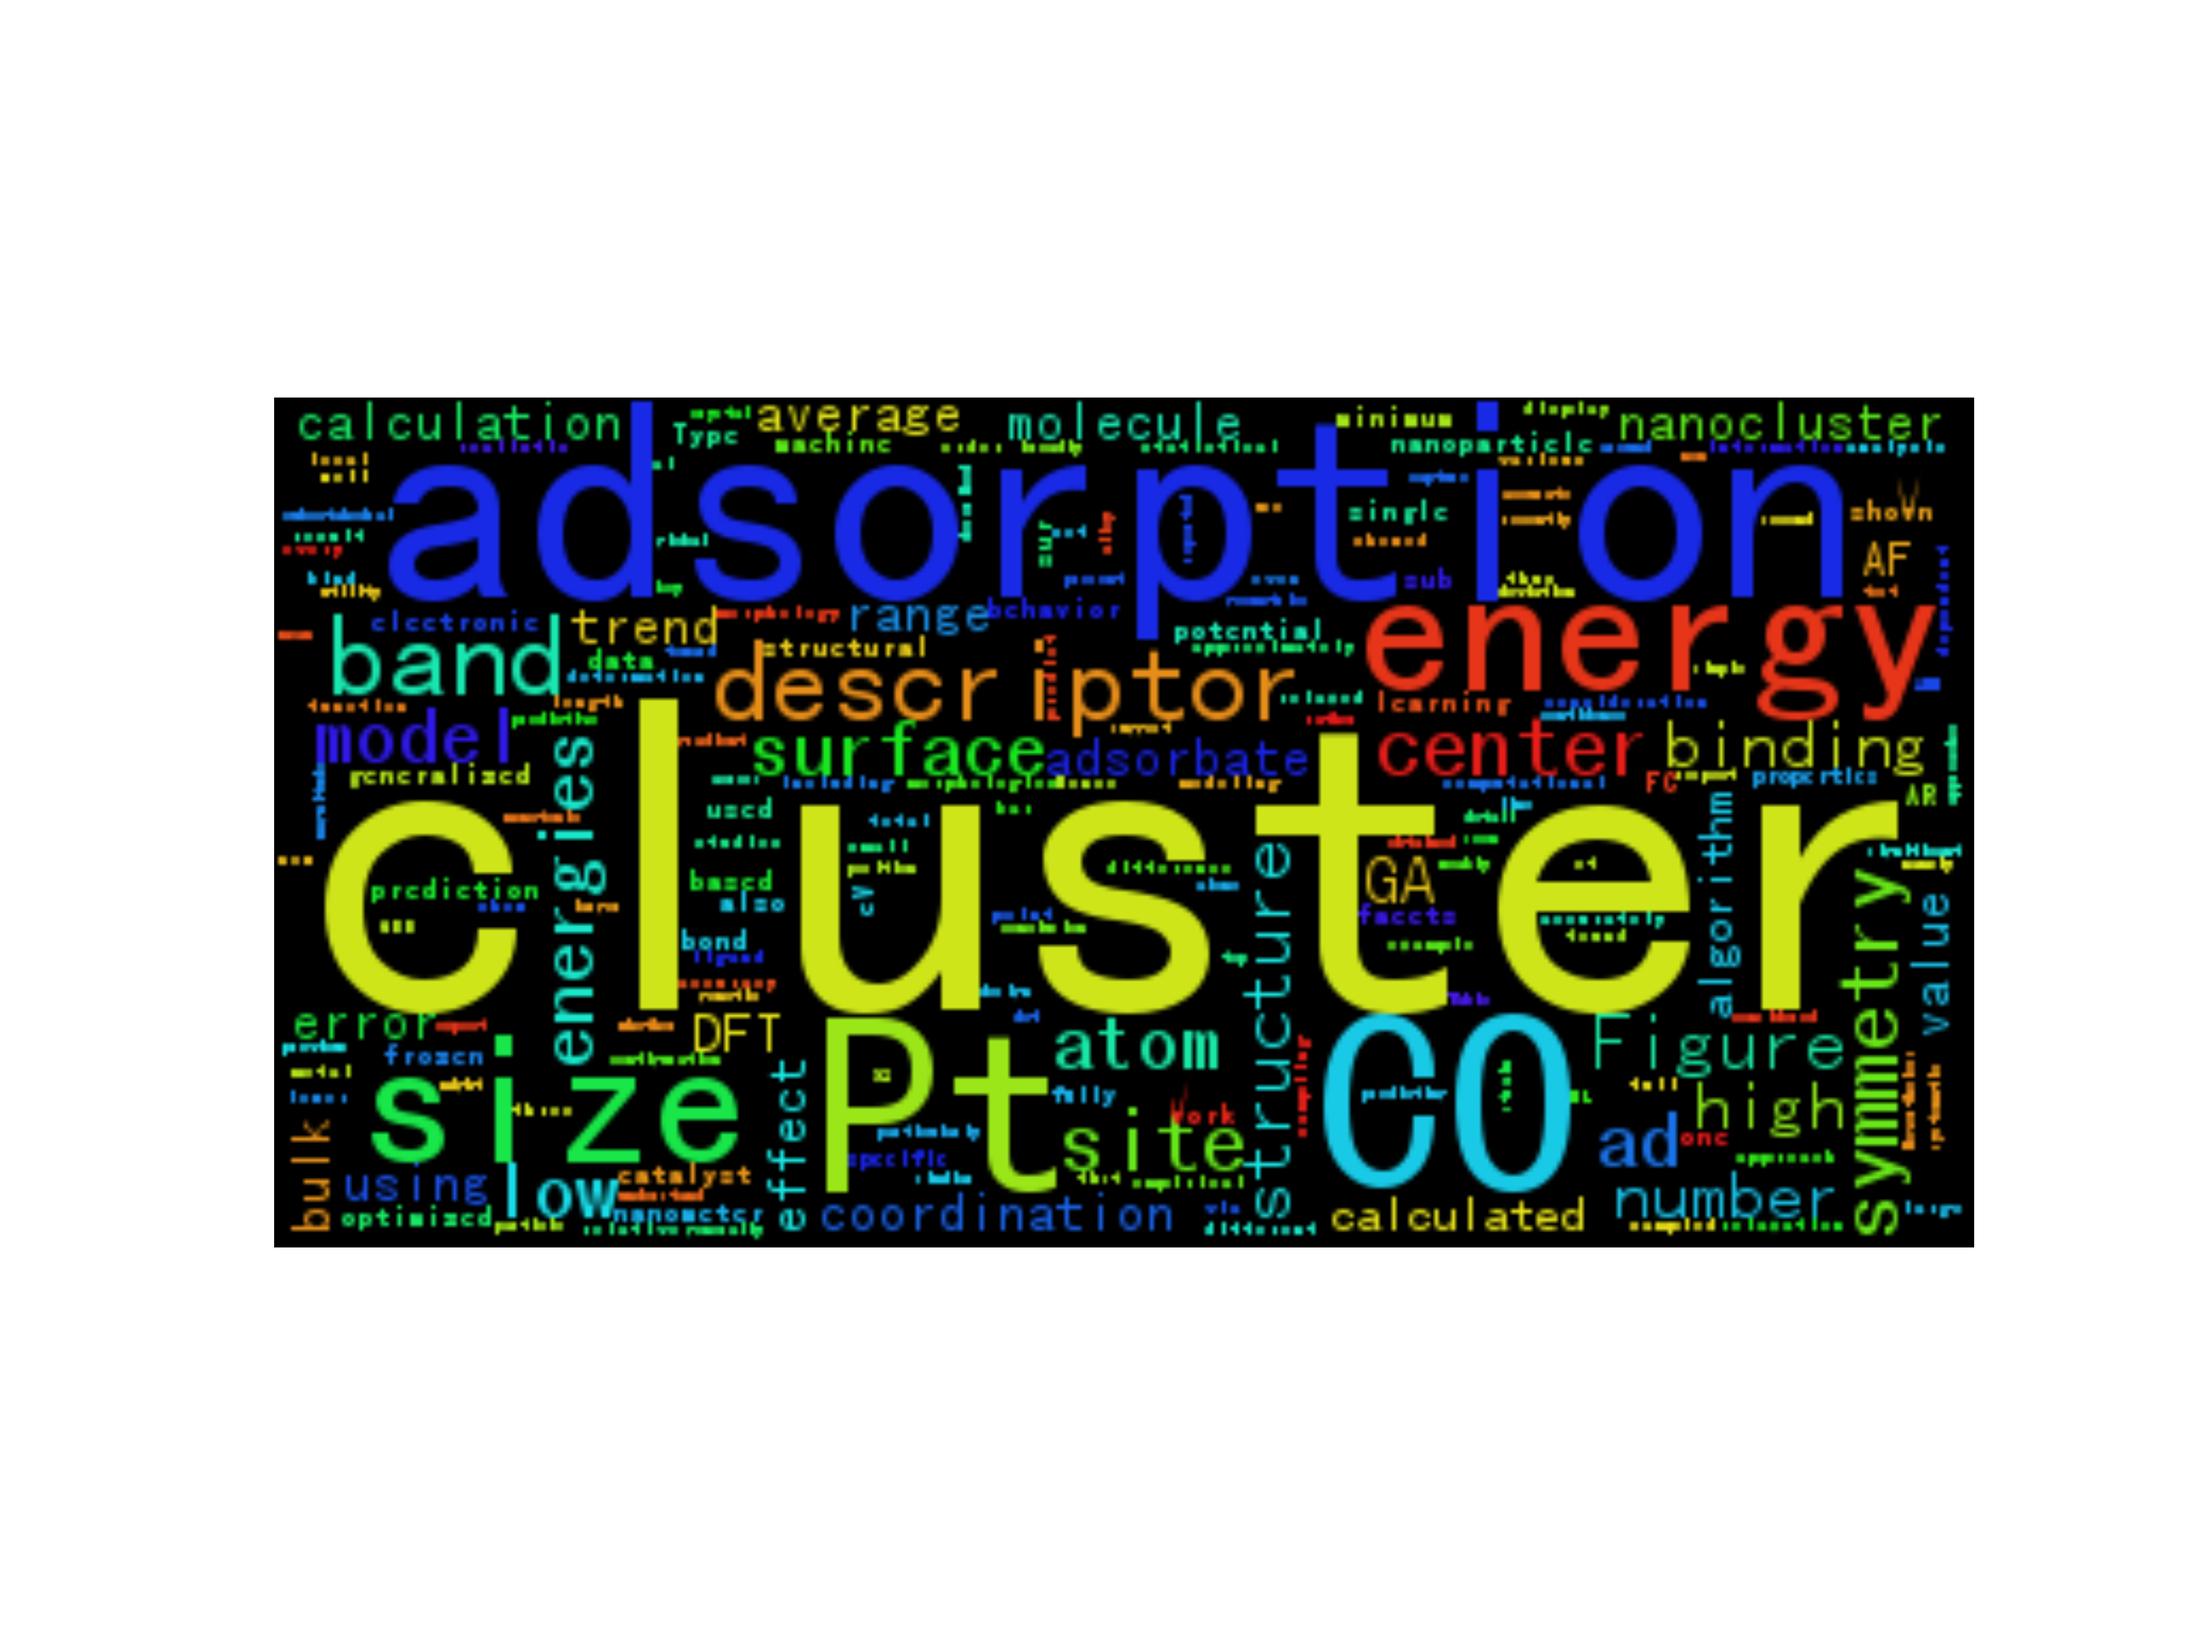
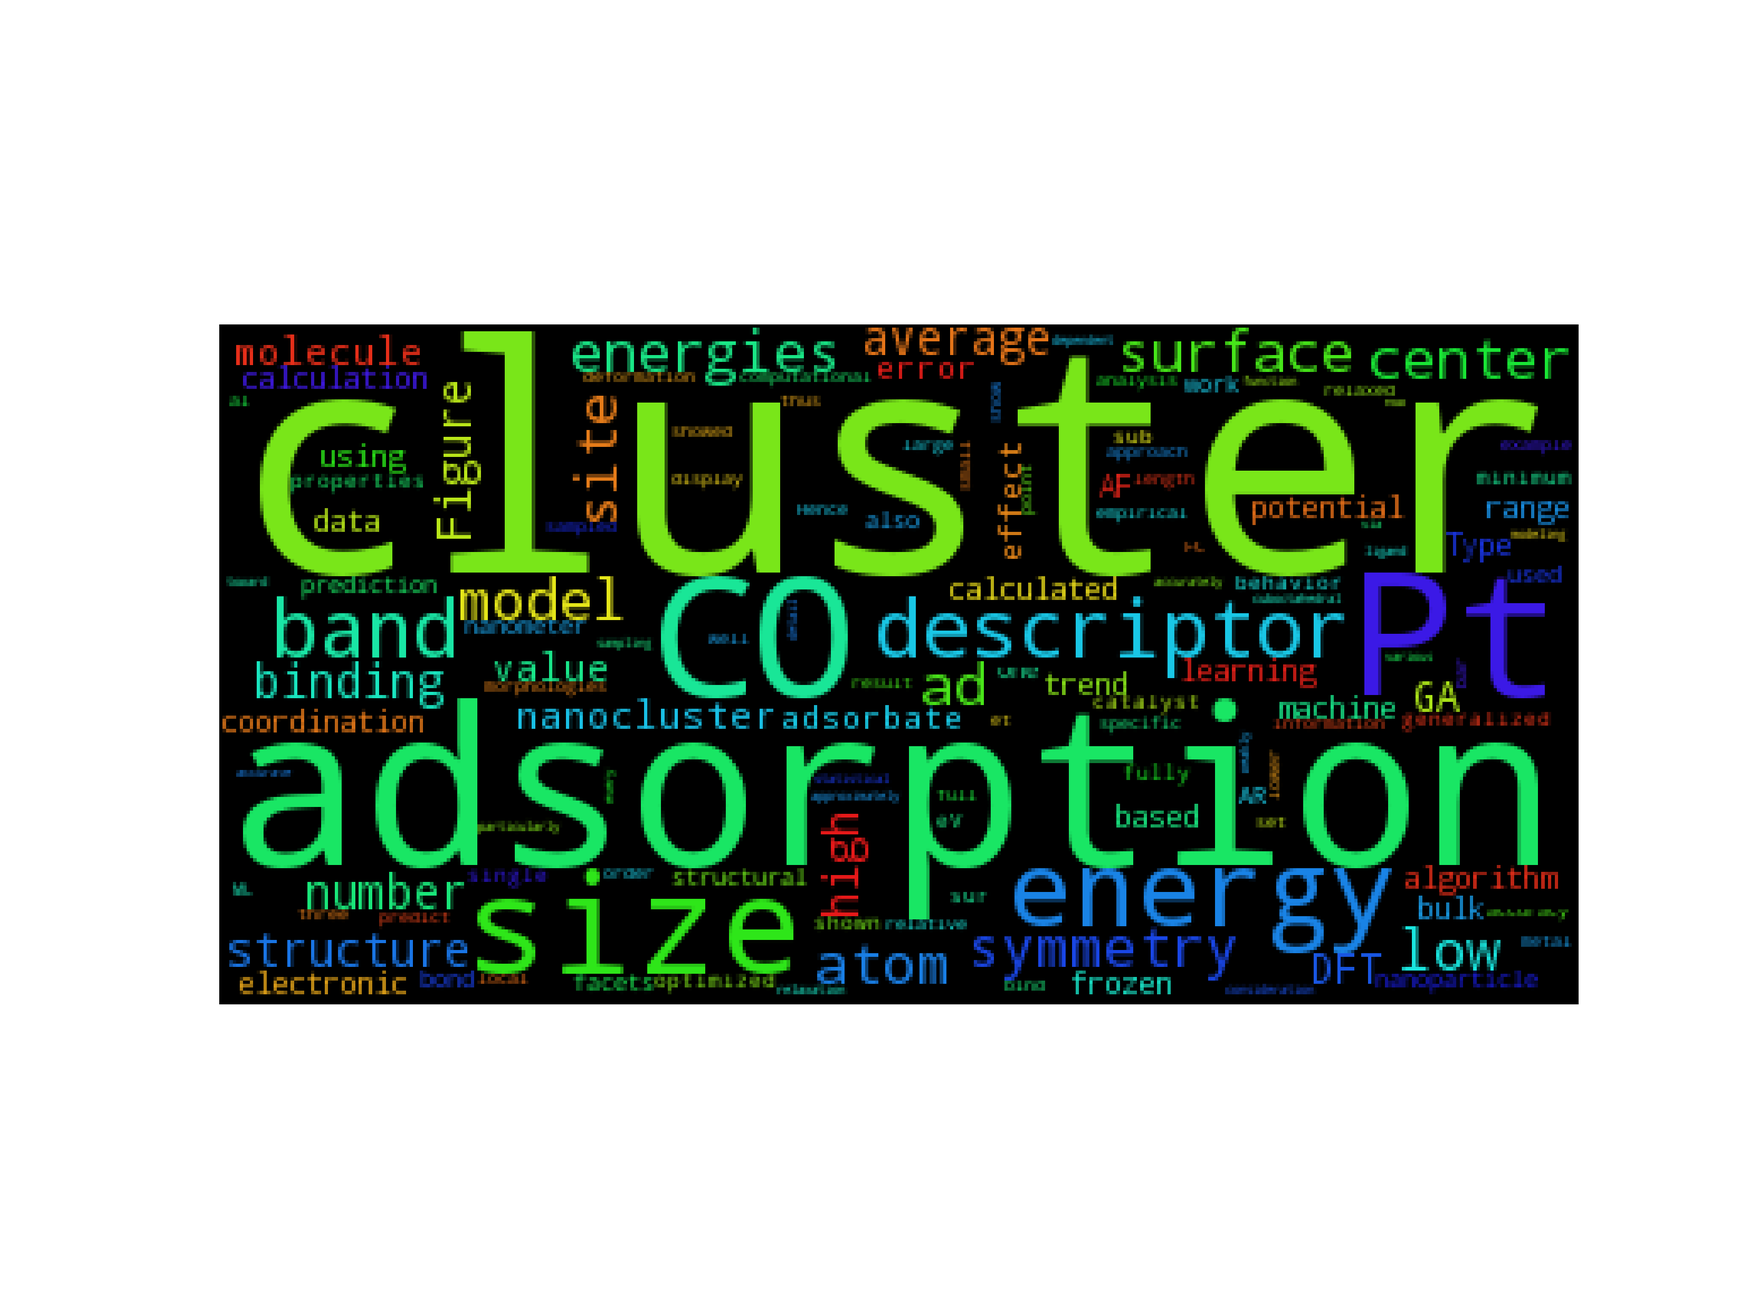
new

Changed region(s): [[0.125, 0.2188, 0.9062, 0.7812]]

diff --git a/everyday/wcloud/words_cloud.py b/everyday/wcloud/words_cloud.py
@@ -1,23 +1,27 @@
 # -*- coding: utf-8 -*-
 import os
 import matplotlib.pyplot as plt
-from wordcloud import WordCloud
+from wordcloud import WordCloud, STOPWORDS
 import jieba
-
-
-# FONT_PATH = os.environ.get("FONT_PATH", os.path.join(os.path.dirname(__file__), "simhei.ttf"))
-# print FONT_PATH
-
+import numpy as np
+from PIL import Image
 
 
 text_from_file_with_apath = open("/Users/zhangjiawei/Code/zjw/everyday/wcloud/wsbrook.txt").read()
+mask = np.array(Image.open("/Users/zhangjiawei/Code/zjw/everyday/wcloud/zjw.jpeg"))
 
-wordlist = jieba.cut(text_from_file_with_apath, cut_all=True)
-wl_space_split = " ".join(wordlist)
+stopwords = set(STOPWORDS)
+stopwords.add("said")
 
-my_wordcloud = WordCloud().generate(wl_space_split)
+# wordlist = jieba.cut(text_from_file_with_apath, cut_all=True)
+# wl_space_split = " ".join(wordlist)
+
+my_wordcloud = WordCloud(background_color='white', mask=mask, max_words=200).generate(text_from_file_with_apath)
+
+# store to file
+my_wordcloud.to_file("./cbb.jpg")
 
 plt.imshow(my_wordcloud)
 plt.axis("off")
-plt.savefig("zjw.png", dpi=600)
+plt.axis("off")
 plt.show()

diff --git a/everyday/spider/jd/iwatch2.py b/everyday/spider/jd/iwatch2.py
@@ -1,0 +1,37 @@
+import requests
+import time
+import json
+import os
+from bs4 import BeautifulSoup
+
+user = "aaronzjw"
+password = "Cbbzjw140308"
+
+jd = 'https://passport.jd.com/uc/login'
+s = requests.session()
+data = {
+    "loginname": user,
+    "nloginpwd": password,}
+
+
+req = s.get(jd)
+soup = BeautifulSoup(req.text, "html.parser")
+items = soup.select("form#formlogin > input")
+uuid = items[0].get('value').encode('utf-8')
+data['uuid'] = uuid
+input_name = items[-1].get('name').encode("utf-8")
+input_value = items[-1].get("value").encode("utf-8")
+data[input_name] = input_value
+verify_url = "http:" + soup.find("img", id="JD_Verification1")["src2"] + "&yys=" + str(int(time.time()*1000))
+print(verify_url)
+img = s.get(verify_url)
+f = open("./zjw.jpg", "wb")
+f.write(img.content)
+authcode = input()
+data["authcode"] = authcode
+print(data)
+
+posreq = s.post("https://passport.jd.com/new/login.aspx?ReturnUrl=https%3A%2F%2Fwww.jd.com%2F", data=data)
+posreq.encoding = "gbk"
+with open("./cookiefile", "w") as f:
+    json.dump(s.cookies.get_dict(), f)

diff --git a/everyday/spider/jd/v2ex.py b/everyday/spider/jd/v2ex.py
@@ -1,0 +1,26 @@
+import requests
+from bs4 import BeautifulSoup
+
+url = "http://www.v2ex.com/signin"
+UA = "Mozilla/5.0 (Macintosh; Intel Mac OS X 10_11_6) AppleWebKit/537.36 (KHTML, like Gecko) Chrome/56.0.2924.87 Safari/537.36"
+header = {"User-Agent": UA, "Referer": "http://www.v2ex.com/signin"}
+
+v2_s = requests.Session()
+
+f = v2_s.get(url, headers=header)
+soup = BeautifulSoup(f.content, "html.parser")
+once = soup.find('input', {"name": "once"})["value"]
+print(once)
+
+
+postdat = {
[2 lines of base64/hex data omitted]
+    "once": once,
+    "next": "/"
+}
+
+v2_s.post(url, data=postdat, headers=header)
+
+f = v2_s.get("https://www.v2ex.com/settings", headers=header)
+print(f.content.decode())

diff --git a/wechatrobot/zjw.py b/wechatrobot/zjw.py
@@ -1,0 +1,28 @@
+import matplotlib.pyplot as plt
+import numpy as np
+# fig = plt.figure()
+# ax = fig.add_subplot(111)
+
+x, y = np.random.rand(2, 100)
+# print(x, y)
+
+# line = ax.plot(x, y)
+# zjw = ax.plot(x **2, y**3)
+#
+# plt.show()
+
+fig, ax = plt.subplots()
+rect1 = plt.Rectangle((0,0), width=1, height=1)
+rect2 = plt.Rectangle((1,1), width=1, height=1)
+rect3 = plt.Rectangle((2,2), width=1, height=1)
+rect4 = plt.Rectangle((3,3), width=1, height=1)
+rect4 = plt.Rectangle((0,3), width=1, height=1)
+
+ax.add_patch(rect1)
+ax.add_patch(rect2)
+ax.add_patch(rect3)
+ax.add_patch(rect4)
+
+ax.autoscale_view()
+
+plt.show()
